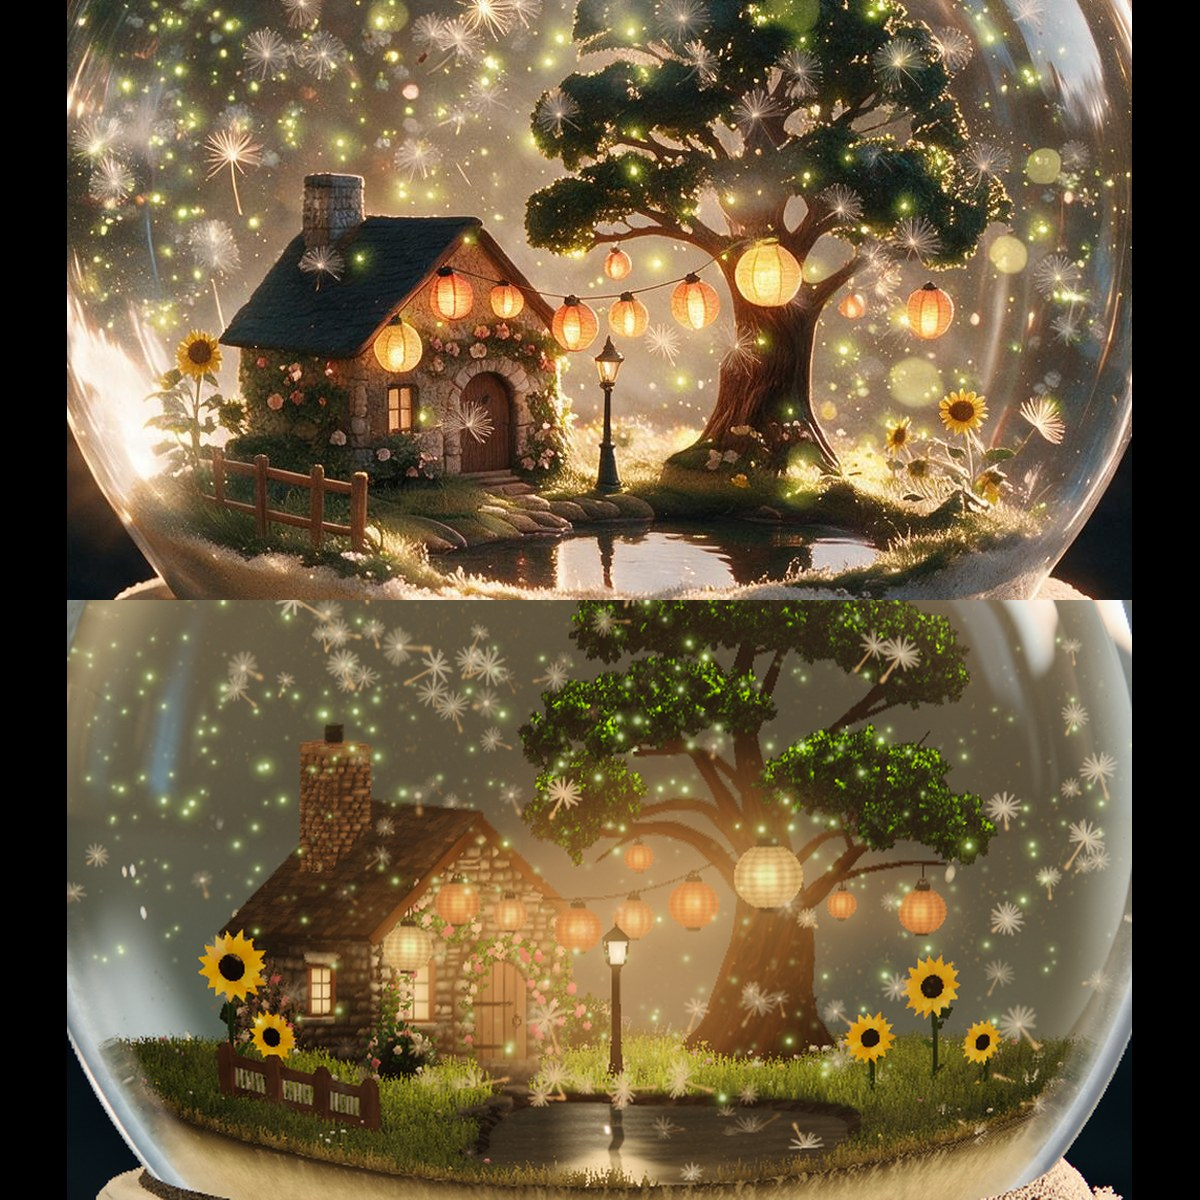
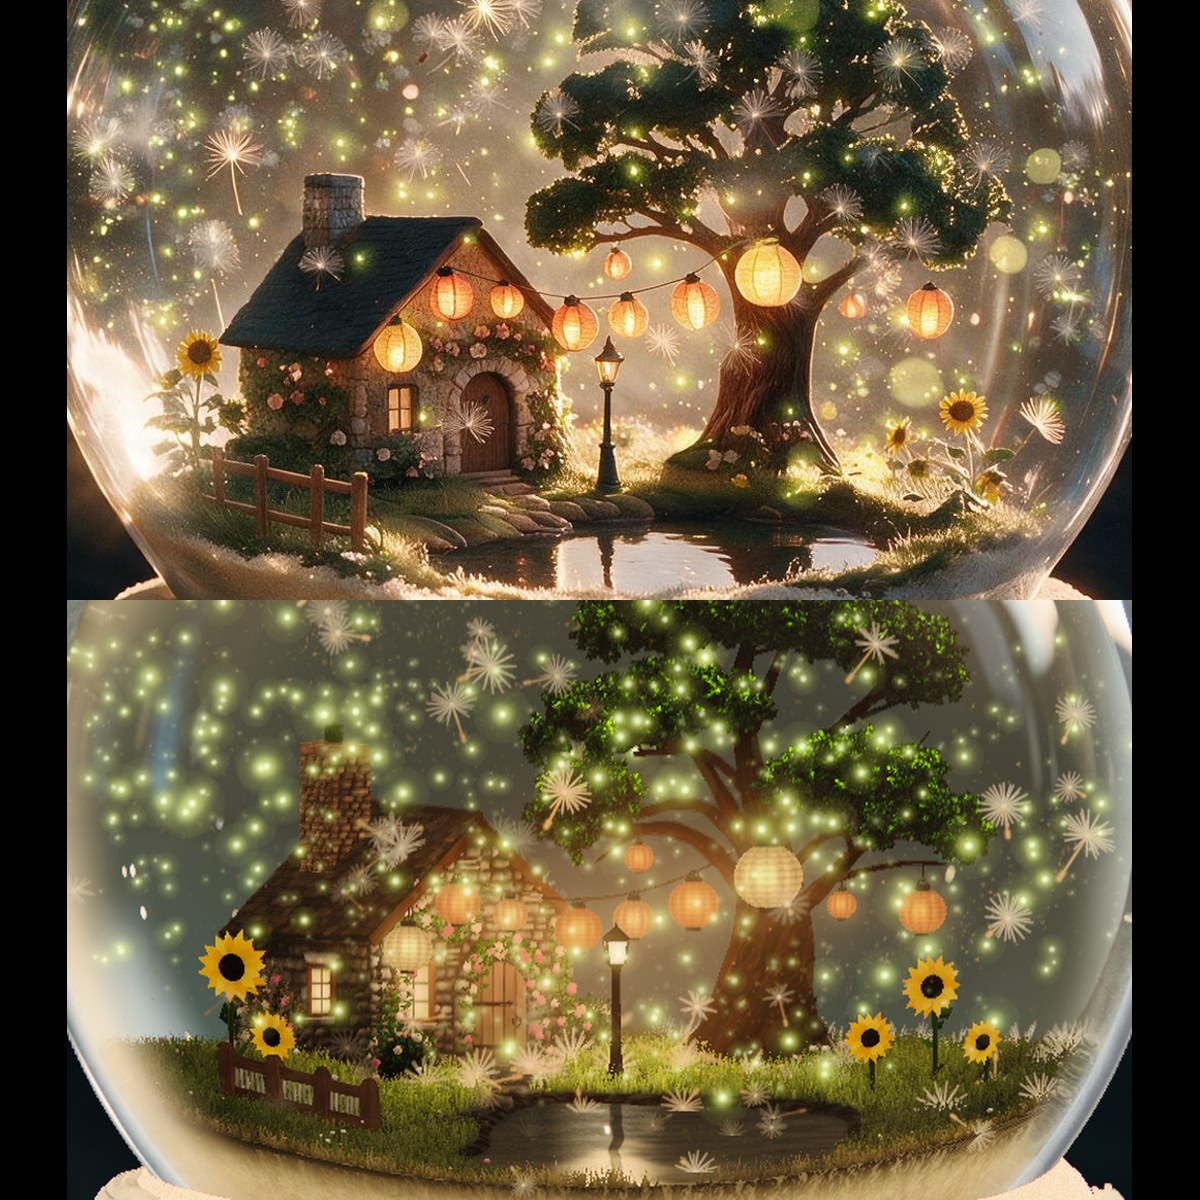
Looks, REPORT.md and HANDOVER.md: summer miniature at 2347819

diff --git a/HANDOVER.md b/HANDOVER.md
@@ -1,0 +1,98 @@
+# Summer miniature: handover
+
+Part `miniature-summer`, branch `agent/p4-summer_mini`, looks branch `agent/p4-summer_mini-looks`. Written for someone who has never seen this work. Times are UTC, 2026-11-25.
+
+## What the part is
+
+Summer's cover, growth, props, small lights and distance field on the shared cottage, trunk, lamp, fence, path, pond outline and island. Nothing shared was changed.
+
+- Crown: a field of 138 lumps on the trunk's 10 pads (`crown.ts`), walked with marching cubes at 0.56 mm, with sprig cards on it. Deep green undersides, key-lit yellow-green tops.
+- Ten paper lanterns (`lanterns.ts`): a string from the left rake of the front gable to the trunk fork, one at the eave, a large cream one on a peg in front of the trunk, three under the limbs. Ribbed paper, dark caps, loops, cords. They sway a little, kick after a landing and come up one by one from `moment.sinceLanding` (0.04 s apart, 0.18 s each, all lit 0.54 s after the landing).
+- Village cover: turf with a sand skirt, 30000 grass tufts, roses on the shrubs and round the door, 5 sunflowers by the fence and right of the tree, small blooms, a still pond that mirrors the sky, the lamp, the trunk, the crown and the cottage.
+- Small lights (`innerLights`): lamp, two windows, ten lanterns. They feed the light grid; near light on grass, turf, walls, wood and leaves is baked per vertex from the same list.
+- Distance field (`collider`): trunk, crown field, shared solids (cottage, fence, lamp), shrubs, ground, sunflower stems.
+
+## Files (all mine, nothing else touched)
+
+- `src/seasons/summer/miniature.ts`: the exported names (`innerLights`, `prepare`, `miniature`, `lights`, `update`, `collider`, `standIns` empty).
+- `src/seasons/summer/mini/palette.ts`: tones.
+- `src/seasons/summer/mini/crown.ts`: the crown field (`FULL`), also used by the build script and the collider.
+- `src/seasons/summer/mini/lanterns.ts`: places, sizes, tones and order of the lanterns, the string.
+- `src/seasons/summer/mini/tree.ts`: leaf, lantern and halo materials, light on wood and leaves, sway and the rise after a landing.
+- `src/seasons/summer/mini/village.ts`: turf, sand, grass, decor and water materials, lamp and window lights, halos, the collider of the village.
+- `assets-src/tree-summer/{build.mjs,RECIPE.md,gen/leaves-take1.png,gen/leaves-take1.prompt.txt}`.
+- `assets-src/village-summer/{build.mjs,RECIPE.md}`.
+
+## Make targets, in order
+
+1. `npm run make -- tree-summer` (about 11 s)
+2. `npm run make -- village-summer` (about 2 s)
+
+Shared `village` and `trunk` first if their files are missing. Then `npm run texpack`, then `npm run build`. `main` now tracks built files under `assets-full/` and `public/assets/`: before a merge run `git checkout -- assets-full public/assets`, merge, then make the two folders again. Never commit those two trees.
+
+## Constants a successor should know
+
+`tree.ts`
+- `LEAF = { rim 6, rimTight 2.5, through 1.5, tight 3.0, fill 1.2, wrap 0.8, bump 1.0, clumpDark 0.16, clumpBright 3.4, top 23 }`. `top` is the key on upward faces of bright leaves, tinted `vec3(1.35, 1.0, 0.4)`; it is what gives the lit tops. Raise or lower it first when the rig's key changes.
+- The key terms of the leaves must be added with `afterLight(...)` from `src/core/chunks/light`. Until 02:07 they were put right after `#include <lights_fragment_end>`, which runs before the stage sets `stageKeyC`, so they read a zero key and the crown took no key light at all.
+- `BARK [0.4, 0.19, 0.1]`, `BARK_BUMP 3.4` (normal scale set on the material `buildTrunk` returns).
+- `GLOW leaves {2.2, 2.3} wood {0.38, 2.2}`, `LAMP_ON_WOOD 0.5`, `LAMP_ON_LEAVES 3`, `FILL_ON_WOOD 0.22`, `FILL_ON_LEAVES 0.5`.
+- `PAPER { power 0.26, reachMm 2.5 }`: a lantern's inner light is power x radius squared, reach x radius. The particles are lit by `innerLights` too, so more power or reach makes a fog ball of lit seeds around each lantern.
+- `LANTERN = { rib 0.55, ribs 26, gain 0.68, body 0.8, core 1.35, tight 6.0, paper 0.06, dim 0.1, stepS 0.04, rampS 0.18, swayRad 0.045, sway2 0.6, kickRad 0.16, kickFade 1.2, kickHz 1.3, cycles 2 }`. Ribs are drawn in the shader from the latitude of the normal. `HALO { radius 2.6, strength 0.075, hot 0 }`.
+
+`village.ts`
+- `LAMP { power 3, reach 12 }` (as winter), `WINDOW { 0.9, 8 }`, `SIDE { 0.8, 7 }`.
+- `NEAR lamp {1.8, 7} pane {0.9, 3} paper {0.5, 2.2}`, `NEAR_WALL lamp {1.3, 8} pane {1.2, 4.5} paper {1.5, 2.9}`, `WALL_FILL 2.0`.
+- `GRASS_LOOK { fill 0.23, wrap 1.0, through 0.48, near 2.1 }`, `TURF_LOOK fill 0.45`, `SAND { body 5, floor 0.8, wrap 1.5, foot 0.85, bump 0.3, grainLow 0.55, grain 1.8 }`.
+- `WATER { spark 1.4, mass 0.88, crownMm 11, crownTall 38, houseMm 8.5, houseTall 17, sky 0.62, trunk 0.55, ... }`: the reflections are cylinders tested in the shader (`villagePost`), not a mirror pass.
+
+`crown.ts`: `FULL = { swell -0.9, perMm2 0.5, radius [0.8, 2.1], dome 0.75, reach 1.22, blend 0.16, knob 0.3, knobMm 1.15, wave 0.45, waveMm 4.3 }`.
+
+`tree-summer/build.mjs`: `LEAF_CELL 0.56`, `TONE deep [0.3,0.54,0.26] mid [0.66,0.95,0.4] tip [2.3,2.3,0.55]`, `SUN [0.5,0.32,-0.8]`, `PAPER orange [1,0.27,0.06] peach [1,0.37,0.11] cream [1,0.55,0.19]`.
+
+`village-summer/build.mjs`: 30000 tufts; snapping `SNAP { position 128, normal 32, color 128, uv 2048 }`, `GRASS_SNAP { position 64, normal 16, uv 512 }`, `TONE_BITS 6`. Do not flatten the grass uv per tuft: M2 then reads 0 texels and fails.
+
+The rig is `summer_air`'s and moved three times tonight. Every key-driven term here (leaf `top`, `rim`, `fill`; grass `fill`, `through`; `SAND.body`; `WALL_FILL`) scales with the key, so look at a rest hero still after any rig change.
+
+## Size and triangles
+
+- Web files of the miniature after texpack: 8.91 MiB of the 9.5 MiB allowance (village-summer.glb 5.54, tree-summer.glb 1.41, leaf tile 1.15 + 0.32, sprigs 0.35, turf 0.14).
+- Triangles: leaves 53920, lanterns 20384, ground 71400, water 2160, grass 90000, decor 22683; 260547 together. None added since `/root`'s 00:57 mail (5192 were taken out of the leaves). `/root` had not sent summer's G15 numbers when this was written.
+
+## Measures and tests
+
+- `npx tsc --noEmit`: clean. `npx vitest run`: 432 tests passed, 4 skipped (02:31, on `2347819`).
+- `npm run determinism` on `2347819`: `determinism: pass`, 3 pictures, 4 page loads, 332 s (02:42).
+- `npm run measure -- --unit summer --only M2,M3,M6 --tier draft` on `2347819` (02:36): 13 of 19 lines, 12 pass, 1 red. M2 passes on all six stills (0 soft pixels). M6 passes on all six (rest 0; shake 6 of 102000 inside a solid, 0.000059 against 0.002). M3 `summer-rest` fails: miniature 0.703 against 0.75 over 122007 pixels (base 3.101). The same measure gave 0.642 at 01:48 and 0.627 at 02:28; the rise to 0.703 is partly the clearer air `main` now holds.
+
+## What is still wrong, worst first
+
+1. The miniature is flatter than the approved image: M3 on `summer-rest` is under 0.75 (number above). Picture: `01-rest-hero-pair.jpg`. What moved it: key light on the crown (the biggest step), sand grain, lantern ribs. What would move it more: tile rows on the roof (shared material, lit only by a fill here), bark that reads at hero size, stones and flowers by the pond, darker shade under the crown.
+2. Grass brighter and yellower than the approved darker green (`01`, `02`). `GRASS_LOOK.fill` and `through` were lowered twice as the key rose; the grass tones in `village-summer/build.mjs` could go darker instead.
+3. No stones by the pond and along the path, which the approved image has (`01`). Not built: `/root` asked for no new triangles; about 800 would do it, and the grass tufts must be thinned where a stone lies.
+4. Trunk bark faint at hero size (`02`). The trunk and its bark maps are shared; here only the tint and the normal scale are set.
+5. Lanterns on the string paler than the approved saturated orange at rest (`02`), and smaller and less bright than the cream-yellow ones of the approved shake image (`04`).
+6. Roof flat dark (`01`); the approved one shows slate rows under a rim light.
+7. Pond paler and flatter than the approved dark water with a bright middle (`01`).
+8. The landing in motion was seen once only, on a sheet at 01:25 with the older slow rise; the ripple is seen in the landed still (`04`), not on a motion sheet.
+
+## Tried and dropped
+
+- A slow rise of the lanterns over 2.5 s: at the landed still (0.5 s) only one was lit, unlike the approved shake image. Now a ripple of 0.54 s.
+- Big smooth crown pads: read as green pillows. Now the pads are shrunk (`swell -0.9`) and the lumps carry the shape.
+- Stronger lantern cores (gain 0.8, core 1.6, whiter hot mix): the paper clipped to cream.
+- Brighter bark tint with weak relief: the trunk went tan and flat. Darker tint, normal scale 3.4 and less baked glow on the wood is what is in now.
+- Flattening grass uv per tuft for size: broke M2. Snapping per vertex kept the size.
+- Working looks before 01:53 were rendered with the particle kinds hidden by one local line in `src/particles/draw/points.ts`, because `main`'s seeds then covered the part. That line was never committed; every picture on this branch now is the real build unless its caption says otherwise.
+
+## Generated pictures and `ASSETS.md` rows
+
+One generated picture, one take of the six allowed. Rows for `ASSETS.md` (the file is `/root`'s):
+
+| `assets-src/tree-summer/gen/leaves-take1.png` | The foliage sheet of summer's tree (leaf tile and sprig cut-outs) | The image tool of this product; the model name was not recorded | `references/approved/summer-rest.png`, x 1340, y 360, 460 by 340 px, as reference only | 1 made, take 1 kept | `assets-src/tree-summer/RECIPE.md` | 2026-11-25 |
+
+Everything else is made by the two build scripts from seeded noise and the shared layout; see the two `RECIPE.md` files.
+
+## Looks
+
+Looks used: 37 of 40 for this part (stills, fits and sheets rendered and looked at; measure sheets not counted).

diff --git a/REPORT.md b/REPORT.md
@@ -1,0 +1,27 @@
+# Summer miniature: final report
+Part `miniature-summer`, agent `summer_mini`, written 02:43 UTC, 2026-11-25. Longer notes: `HANDOVER.md` beside this file.
+- Branch `agent/p4-summer_mini`, last commit `2347819` (main merged at 02:29). Looks branch `agent/p4-summer_mini-looks`.
+- Stand-ins and fallbacks left: none. `standIns` is empty, nothing drawn carries `userData.standIn`; the stand-in view was black where the part is at stage 1 (`03-rest-standins.jpg`), not rendered again since.
+## Still wrong, worst first
+1. Flatter than the approved image: M3 on `summer-rest` is 0.703 against 0.75 for the miniature (0.627 one merge earlier). The one red line of the summer measures I ran.
+2. Grass brighter and yellower than the approved darker green.
+3. No stones by the pond and the path (no triangles were added after the 00:57 mail).
+4. Trunk bark faint at hero size; trunk and bark maps are shared, only tint and normal scale are set here.
+5. Lanterns on the string paler than the approved orange at rest; smaller and less bright than the approved cream-yellow ones in the landed still.
+6. Roof flat dark; pond paler than the approved dark water.
+7. The lanterns' ripple after a landing is seen in the landed still only, not on a motion sheet.
+## What was built
+- A full deep green crown of 138 small clusters on the shared trunk, sprig cards on it, key-lit tops over dark undersides.
+- Ten ribbed paper lanterns on a string and under the limbs, with caps and cords; they sway, kick after a landing and come up one by one from `moment.sinceLanding`, all lit by 0.54 s.
+- Turf with a sand skirt, 30000 grass tufts, roses, five sunflowers, small blooms, a still pond mirroring sky, lamp, trunk, crown and cottage.
+- Small lights as real lights: lamp, two windows and ten lanterns in `innerLights`; near light baked on grass, walls, wood and leaves.
+- The distance field: trunk, crown, cottage, fence, lamp, shrubs, ground, sunflower stems, so seeds snag on the tree and the fence.
+## Make targets, in order
+`npm run make -- tree-summer`, then `npm run make -- village-summer` (shared `village` and `trunk` first if missing), then `npm run texpack`, `npm run build`.
+## Tests and measures, all on `2347819`
+- `npx tsc --noEmit` clean; `npx vitest run`: 432 tests passed, 4 skipped (02:31).
+- `npm run determinism`: `determinism: pass`, 3 pictures, 4 page loads, 332 s (02:42).
+- `npm run measure -- --unit summer --only M2,M3,M6 --tier draft` (02:36): 13 of 19 lines, 12 pass, 1 red. M2 0 soft pixels on all six stills; M6 passes on all six (shake 6 of 102000 inside a solid); M3 as in point 1 (base 3.101).
+## Size, triangles, looks
+- Miniature web files after texpack 8.91 MiB of 9.5; 260547 triangles, none added since the 00:57 mail (5192 taken out of the leaves).
+- Looks used: 37 of 40 (stills, fits and sheets looked at; measure sheets not counted).
